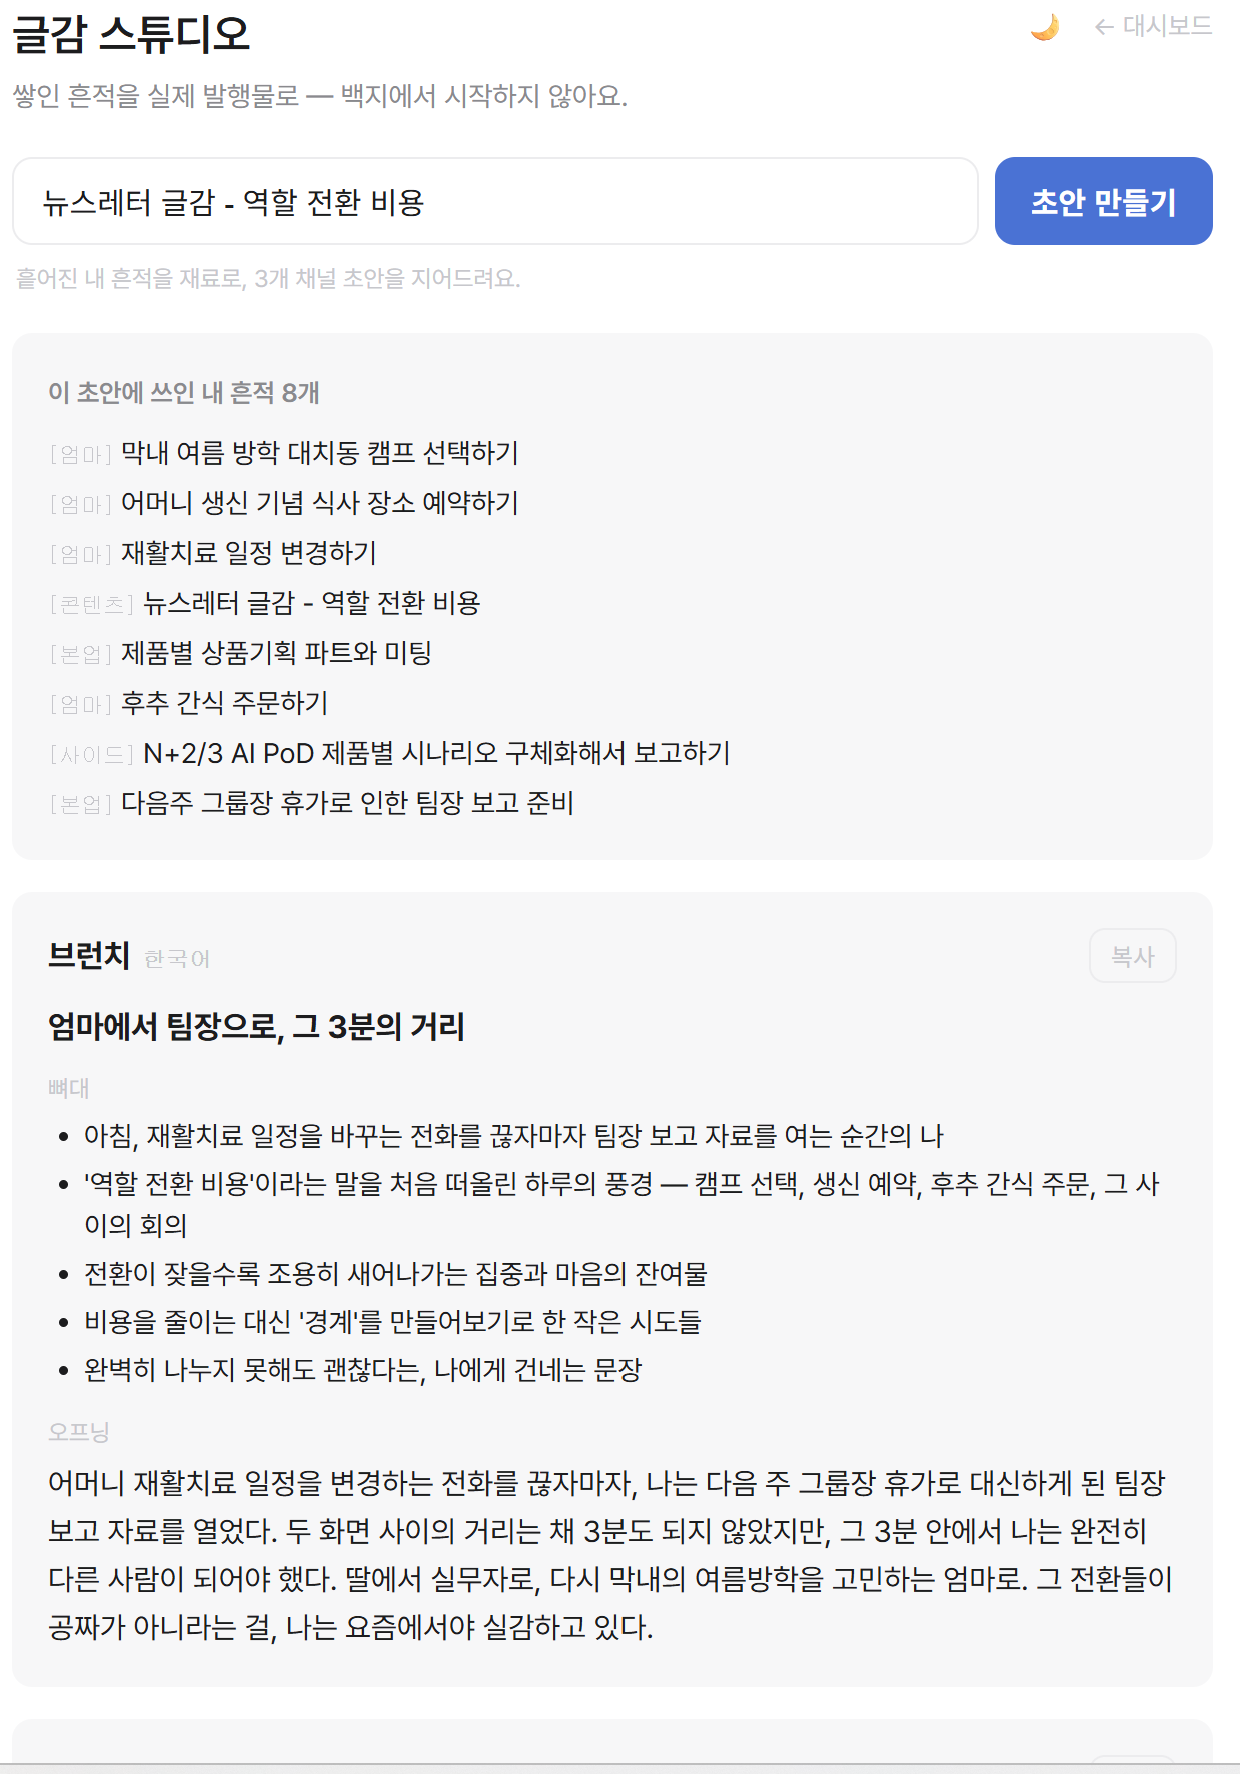
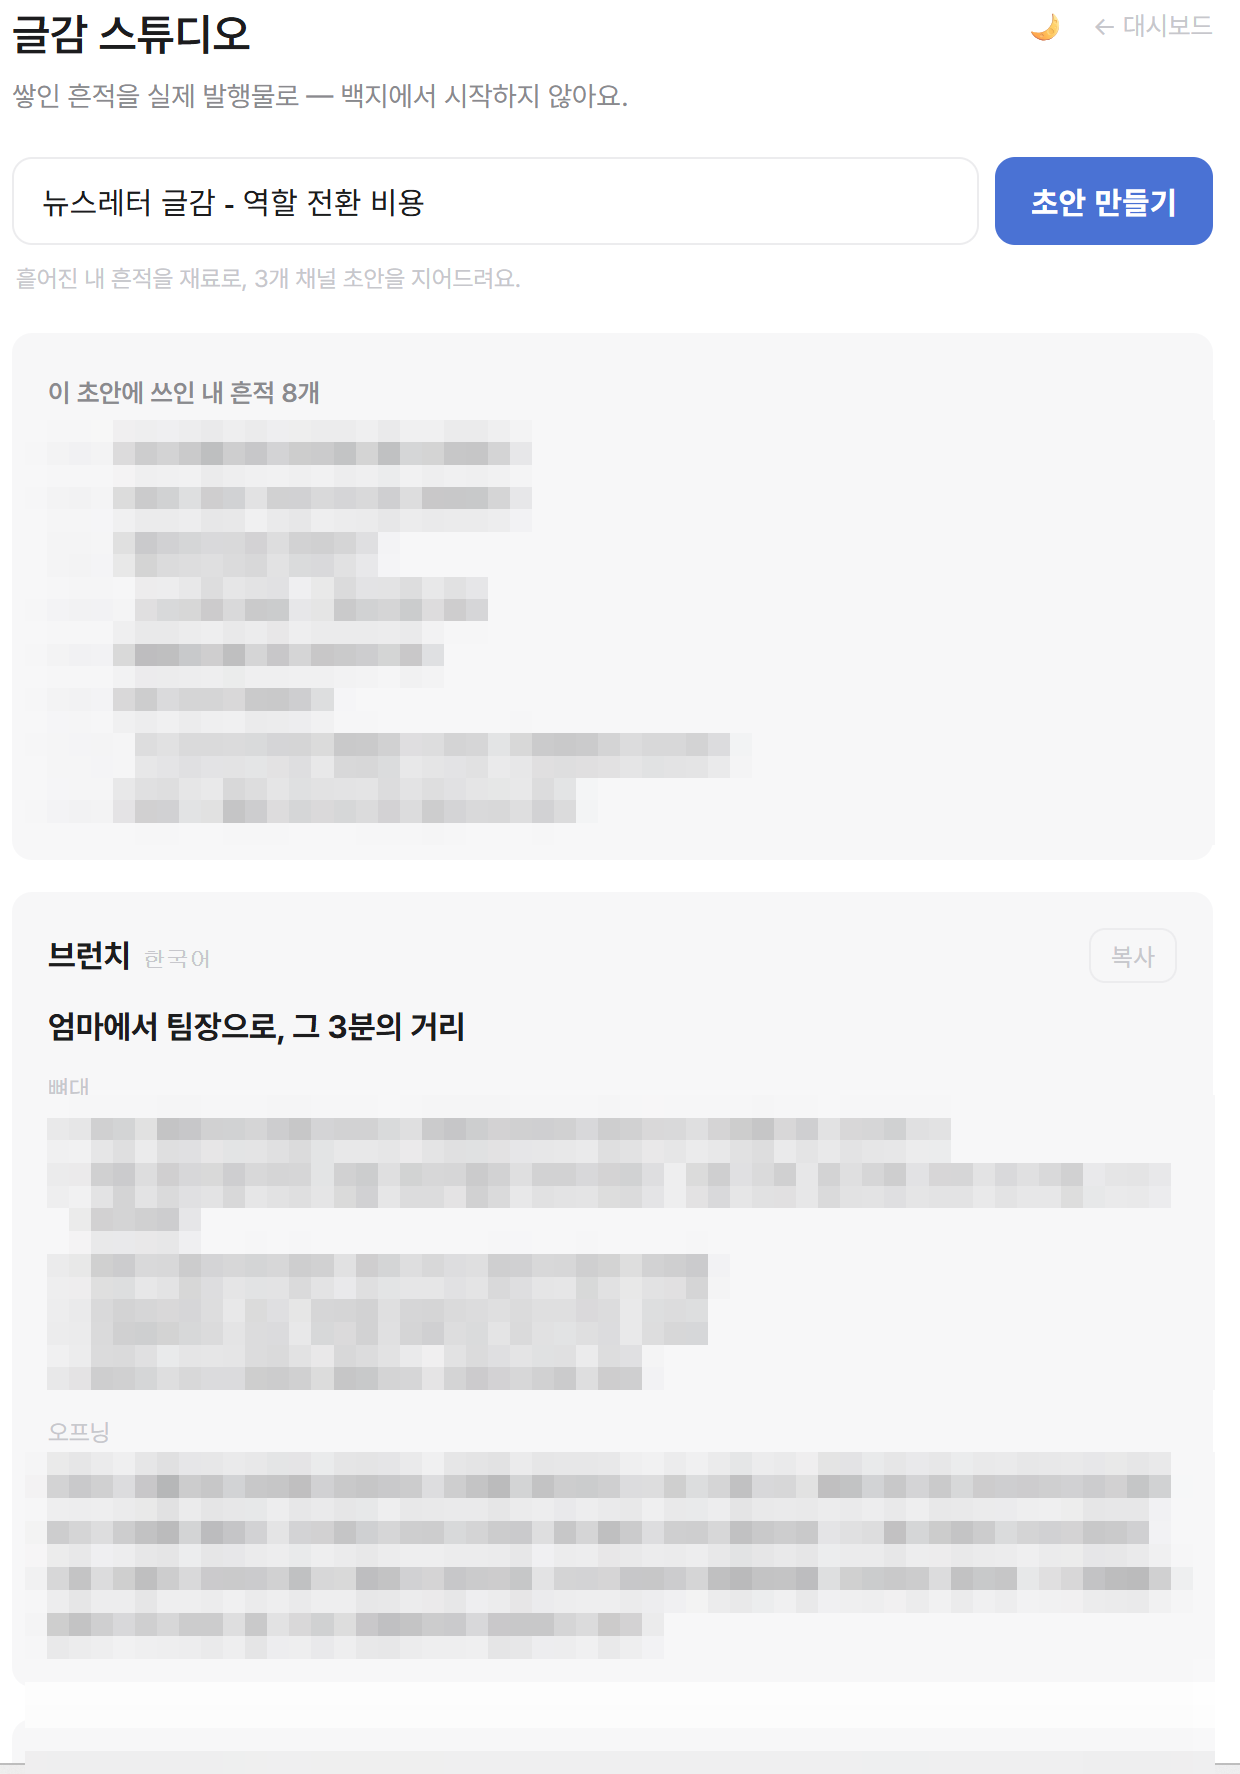
chore: 2·3주차 제출물 개인정보 정리 (스크린샷 모자이크 + 본문 표현 교체)
저장소가 public 이라, 제3자·사내 식별 정보를 정리했다.
기준: 사내 프로젝트명 · 자녀 정보 · 가족 건강.

- 3주차 스크린샷 2장 모자이크 (다운샘플 방식 — 원본 복원 불가)
  - 글감스튜디오: 흔적 8개 목록, 초안 뼈대·오프닝 본문
  - 텔레그램-자동분류: 사내 프로젝트명·자녀 일정이 담긴 메시지 3건
  - 화면 구조와 분류 결과는 남겨, 캡처의 논지는 그대로 유지
- 같은 내용이 본문·캡션에 그대로 있어 함께 교체 (가린 것을 텍스트가 설명하던 문제)
  - 2주차 3곳 · 3주차 4곳
- 본인 건강(재활 운동)과 4주차 고2 막내는 유지 — 각각 2주차 미분류 발견과
  고고버디 과제의 전제라, 빼면 과제가 성립하지 않는다

Changed region(s): [[0.0306, 0.6201, 0.95, 0.9301], [0.0919, 0.248, 0.6129, 0.4651], [0.0306, 0.9921, 0.9806, 1.0]]

diff --git a/1_mission/6조/웃는돌(장경아)/3주차 과제 제출 폴더/submission.md b/1_mission/6조/웃는돌(장경아)/3주차 과제 제출 폴더/submission.md
@@ -42,7 +42,7 @@ date: 2026-07-16
 **① 실동작 증빙 — 텔레그램 한 줄이 자동으로 여러 역할에 나뉘어 담김** (라이브 확인 ✅)
 - 서로 다른 성격의 문장들을 연달아 던져도, 봇이 각각을 **알맞은 역할로 분류**해 답장한다.
   - `후추 간식 주문하기` → **📥 엄마에 담았어요 ✅**
-  - `제품별 상품기획 파트와 미팅` → **📥 본업에 담았어요 ✅**
+  - `유관 부서와 미팅` → **📥 본업에 담았어요 ✅**
   - `이번주 브런치스토리와 링크드인에 글쓰기 아직 게재 안했어` → **📥 콘텐츠에 담았어요 ✅** (원문을 `브런치스토리와 링크드인에 글 게재하기`로 **다듬어(clean_text)** 저장)
   - `뉴스레터 글감: 역할 전환 비용 …` → **📥 콘텐츠에 담았어요 ✅**
 - 한 줄만 되는 게 아니라, **섞인 흔적을 실시간으로 갈라 담는** 것까지 실제 작동.
@@ -58,8 +58,8 @@ date: 2026-07-16
 ![대시보드 — 역할별 복원 화면](이미지첨부/대시보드.png)
 
 **③ 글감 스튜디오 — 흩어진 흔적이 실제 글 초안으로 (흔적 → IP)** (라이브 확인 ✅)
-- '뉴스레터 글감 - 역할 전환 비용'을 넣으니, **서로 다른 역할의 흔적 8개**(엄마 재활치료 일정·캠프 선택·생신 예약 / 본업 팀장 보고·상품기획 미팅 / 사이드 …)를 **근거로 묶어** 초안을 지어 줌.
-- 결과: 브런치 초안 **"엄마에서 팀장으로, 그 3분의 거리"** — 뼈대(5줄)와 오프닝 문단까지. *어머니 재활치료 전화를 끊자마자 팀장 보고 자료를 여는 3분*을 '역할 전환 비용'이라는 내 글감과 실제로 엮어냈다.
+- '뉴스레터 글감 - 역할 전환 비용'을 넣으니, **서로 다른 역할의 흔적 8개**(엄마 가족 돌봄 일정·캠프 선택·기념일 예약 / 본업 팀장 보고·부서 미팅 / 사이드 …)를 **근거로 묶어** 초안을 지어 줌.
+- 결과: 브런치 초안 **"엄마에서 팀장으로, 그 3분의 거리"** — 뼈대(5줄)와 오프닝 문단까지. *가족 돌봄 전화를 끊자마자 팀장 보고 자료를 여는 3분*을 '역할 전환 비용'이라는 내 글감과 실제로 엮어냈다.
 - **어떤 흔적이 쓰였는지 근거 매핑**까지 보여줘, 내 기록이 그대로 콘텐츠 재료가 되는 걸 눈으로 확인.
 
 ![글감 스튜디오 — 흔적 8개 → 브런치 초안](이미지첨부/글감스튜디오.png)

diff --git a/1_mission/6조/웃는돌(장경아)/3주차 과제 제출 폴더/이미지첨부/README.md b/1_mission/6조/웃는돌(장경아)/3주차 과제 제출 폴더/이미지첨부/README.md
@@ -4,7 +4,7 @@
 
 | 파일명 | 내용 |
 |---|---|
-| `텔레그램-자동분류.png` | 텔레그램에 서로 다른 문장을 연달아 보내니 봇이 각각 알맞은 역할로 분류·답장(엄마 "후추 간식 주문하기" / 본업 "제품별 상품기획 파트와 미팅" / 콘텐츠 "브런치스토리와 링크드인에 글 게재하기" 등) |
+| `텔레그램-자동분류.png` | 텔레그램에 서로 다른 문장을 연달아 보내니 봇이 각각 알맞은 역할로 분류·답장(엄마 "후추 간식 주문하기" / 본업 "유관 부서와 미팅" / 콘텐츠 "브런치스토리와 링크드인에 글 게재하기" 등) |
 | `대시보드.png` | imprint-os-app.vercel.app 로그인 후 대시보드 — "좋은 저녁이에요, 경아 님 · 오늘 9개", 역할 점·개수(본업 3·콘텐츠 1·사이드 1·엄마 4), 콘텐츠 역할 복원 화면 |
 | `글감스튜디오.png` | 글감 스튜디오 — '뉴스레터 글감: 역할 전환 비용'을 넣어 흔적 8개를 근거로 묶은 브런치 초안 "엄마에서 팀장으로, 그 3분의 거리" |
 

diff --git a/1_mission/6조/웃는돌(장경아)/2주차 과제 제출 폴더/submission.md b/1_mission/6조/웃는돌(장경아)/2주차 과제 제출 폴더/submission.md
@@ -80,7 +80,7 @@ date: 2026-07-09
 | OpenAI 새 에이전트 플랫폼 임원 보고 다음주 화요일까지 초안 | 본업 | 할일 |
 | 규제산업 1등 포지셔닝, 블로그 글로 풀면 좋겠다 | 콘텐츠 | 글감 |
 | 사이드 PoC 사용자 인터뷰 5명, 질문지 아직 없음 | 사이드 | 할일 |
-| 금요일 막내 물리 과외 픽업 | 엄마 | 할일 |
+| 금요일 가족 픽업 | 엄마 | 할일 |
 | '역할 전환 비용' 개념, 뉴스레터 소재로 | 콘텐츠 | 글감 |
 | 경쟁사 벤치마크 자료 https://… | 본업 | 자료 |
 | 아침 재활 운동 15분 루틴 지키기 | 미분류 | 할일(건강) |

diff --git a/1_mission/6조/웃는돌(장경아)/2주차 과제 제출 폴더/흔적-os/inbox.md b/1_mission/6조/웃는돌(장경아)/2주차 과제 제출 폴더/흔적-os/inbox.md
@@ -9,7 +9,7 @@
 - [x] OpenAI 새 에이전트 플랫폼 관련 임원 보고 다음주 화요일까지 초안
 - [x] 규제산업 1등 포지셔닝, 이거 블로그 글로 풀면 좋겠다
 - [x] 사이드 PoC 사용자 인터뷰 5명 목표, 질문지 아직 없음
-- [x] 금요일 막내 물리 과외 픽업
+- [x] 금요일 가족 픽업
 - [x] '역할 전환 비용'이라는 개념, 나중에 뉴스레터 소재로
 - [x] 경쟁사 벤치마크 자료 https://example.com/benchmark
 - [x] 아침 재활 운동 15분 루틴 지키기

diff --git a/1_mission/6조/웃는돌(장경아)/2주차 과제 제출 폴더/흔적-os/roles/엄마.md b/1_mission/6조/웃는돌(장경아)/2주차 과제 제출 폴더/흔적-os/roles/엄마.md
@@ -3,7 +3,7 @@
 > 던진 한 줄이 여기 쌓인다. 직접 정리하지 않아도 됨. (담기 스킬이 채운다)
 
 ## 🔓 열린 루프 (할일 / 결정 대기)
-- [ ] (2026-07-09) 금요일 막내 물리 과외 픽업
+- [ ] (2026-07-09) 금요일 가족 픽업
 
 ## 💭 생각 · 글감
 
